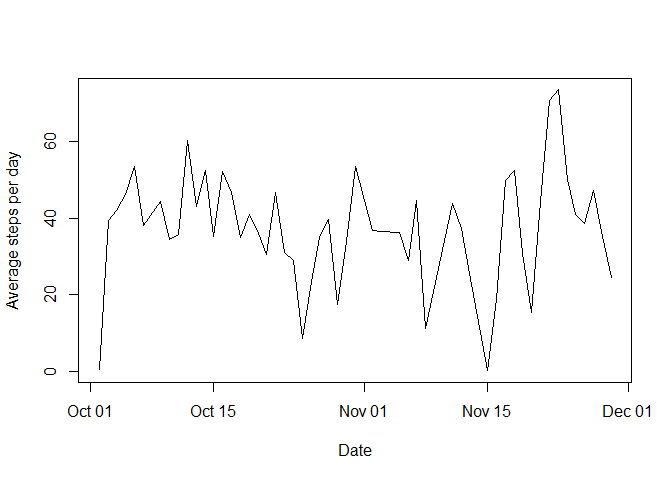
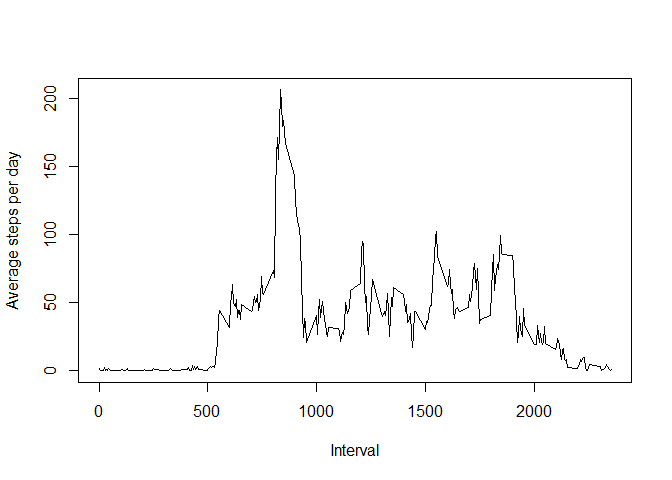
fix missing max interval and graph

diff --git a/PA1_template.html b/PA1_template.html
@@ -399,16 +399,19 @@ dev.off();</code></pre>
 <div id="what-is-the-average-daily-activity-pattern" class="section level2">
 <h2>What is the average daily activity pattern?</h2>
 <p>We should average the number of steps by date. Some days have no value at all hence they should be excluded from the plot.</p>
-<pre class="r"><code>averageStepsPerDay &lt;-tapply(dt$steps, dt$date, mean,na.rm=TRUE)
-availableDates &lt;- !is.na(averageStepsPerDay)
-plot(as.Date(names(averageStepsPerDay[availableDates])),
-     averageStepsPerDay[availableDates],
+<pre class="r"><code>averageStepsPerDayInterval &lt;-tapply(dt$steps, dt$interval, mean,na.rm=TRUE)
+
+
+plot(names(averageStepsPerDayInterval),
+     averageStepsPerDayInterval,
      type=&#39;l&#39;,
-     xlab = &#39;Date&#39;,
+     xlab = &#39;Interval&#39;,
      ylab = &#39;Average steps per day&#39;)</code></pre>
[2 lines of base64/hex data omitted]
 <pre class="r"><code>dev.copy(png,&#39;figure/stepsPerDayTimeSeries.png&#39;)
-dev.off()</code></pre>
+dev.off()
+maxInterval &lt;- which.max(averageStepsPerDayInterval)</code></pre>
+<p>Interval 104 has the most number of steps</p>
 </div>
 <div id="imputing-missing-values" class="section level2">
 <h2>Imputing missing values</h2>

diff --git a/PA1_template.md b/PA1_template.md
@@ -61,12 +61,13 @@ We should average the number of steps by date.
 Some days have no value at all hence they should be excluded from the plot.
 
 ```r
-averageStepsPerDay <-tapply(dt$steps, dt$date, mean,na.rm=TRUE)
-availableDates <- !is.na(averageStepsPerDay)
-plot(as.Date(names(averageStepsPerDay[availableDates])),
-     averageStepsPerDay[availableDates],
+averageStepsPerDayInterval <-tapply(dt$steps, dt$interval, mean,na.rm=TRUE)
+
+
+plot(names(averageStepsPerDayInterval),
+     averageStepsPerDayInterval,
      type='l',
-     xlab = 'Date',
+     xlab = 'Interval',
      ylab = 'Average steps per day')
 ```
 
@@ -75,7 +76,9 @@ plot(as.Date(names(averageStepsPerDay[availableDates])),
 ```r
 dev.copy(png,'figure/stepsPerDayTimeSeries.png')
 dev.off()
+maxInterval <- which.max(averageStepsPerDayInterval)
 ```
+Interval 104 has the most number of steps
 
 ## Imputing missing values
 Data has 2304 `NA`s. We will impute the missing values by filling them with the mean of the 5-minute interval.
